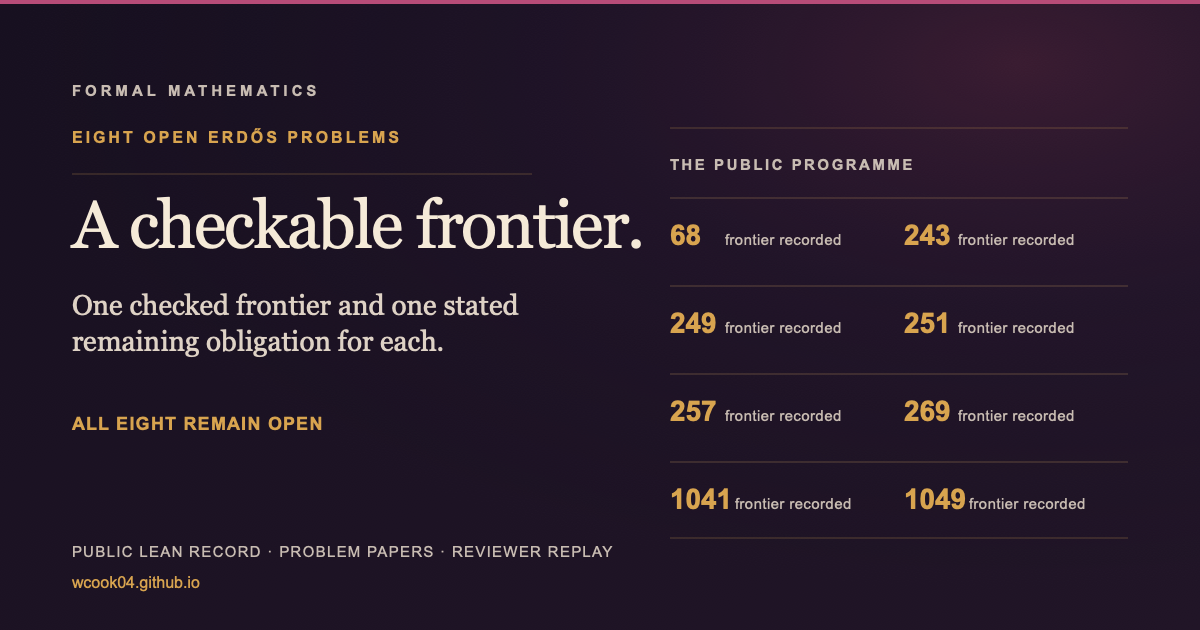
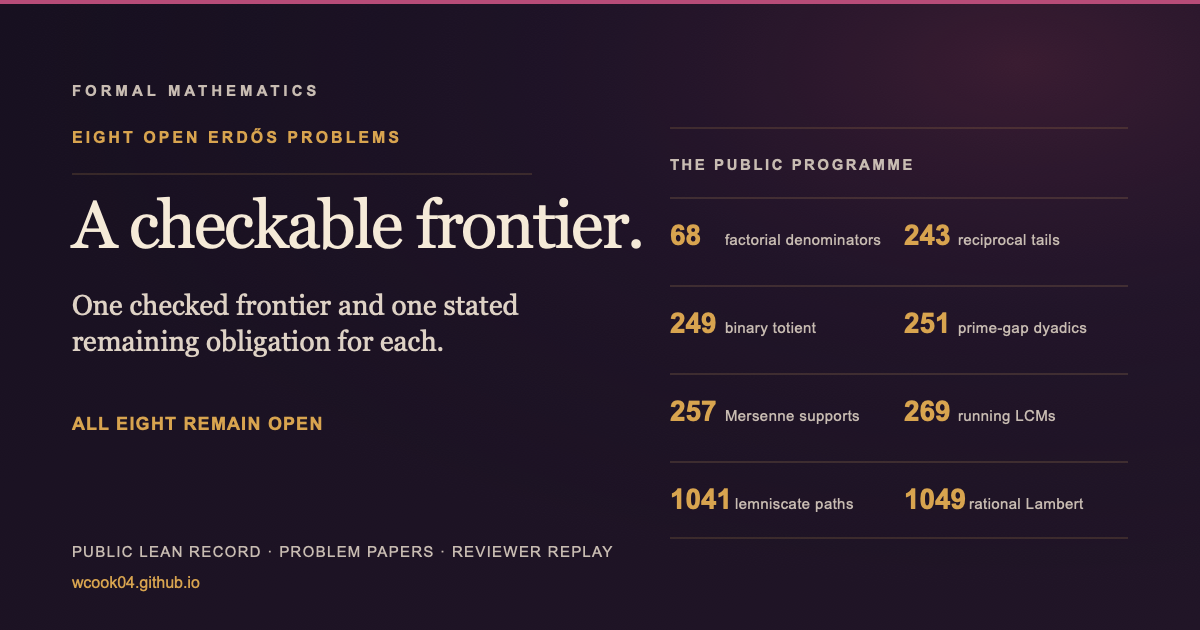
design: identify all eight subjects on share card

diff --git a/scripts/check_frontier_surface.py b/scripts/check_frontier_surface.py
@@ -15,6 +15,7 @@ from pathlib import Path
 
 ROOT = Path(__file__).resolve().parents[1]
 INDEX = ROOT / "index.html"
+OG_FRONTIER = ROOT / "assets" / "og-frontier.svg"
 SNAPSHOT = "11a318711096671ce1c00257a55fe5d7b9963864"
 PROBLEMS = ("68", "243", "249", "251", "257", "269", "1041", "1049")
 FRONTIER_LABELS = {
@@ -37,6 +38,16 @@ PROBLEM_TOPICS = {
     "1041": "Short lemniscate connections.",
     "1049": "Lambert series at rational bases.",
 }
+OG_PROGRAMME_SUBJECTS = (
+    "factorial denominators",
+    "reciprocal tails",
+    "binary totient",
+    "prime-gap dyadics",
+    "Mersenne supports",
+    "running LCMs",
+    "lemniscate paths",
+    "rational Lambert",
+)
 FRONTIER_SHEET_ANCHORS = {
     "68": (
         "ErdosProblems.Erdos68.irrational_factorialGapSeries_iff_cofinal_strictFacTopRat_misses",
@@ -97,6 +108,7 @@ def frontier_plate(text: str) -> str:
 
 def main() -> int:
     text = INDEX.read_text(encoding="utf-8")
+    og_frontier = OG_FRONTIER.read_text(encoding="utf-8")
     plate = frontier_plate(text)
     require("<h1>Eight open<br>Erd&#337;s problems</h1>" in text, "masthead no longer leads with the mathematical programme")
     require("Will Cook &middot; checkable frontier" in text, "masthead lost authorship")
@@ -119,6 +131,9 @@ def main() -> int:
     require('frame.setAttribute("data-view", view);' in text, "destination frame no longer switches its view")
     require('if (view === "problem") frame.setAttribute("data-problem", d.problem);' in text, "destination frame no longer selects a portrait sheet")
     require('document.addEventListener("focusin", function (ev) {' in text, "frontier sheets no longer have a keyboard route")
+    require("ALL EIGHT REMAIN OPEN" in og_frontier, "share card lost the open-problem boundary")
+    for subject in OG_PROGRAMME_SUBJECTS:
+        require(subject in og_frontier, f"share card no longer names {subject}")
 
     lean_links = re.findall(
         r'https://github\.com/wcook04/plectis-lean-erdos249-257/(?:tree|blob)/[^"\s<]+',
